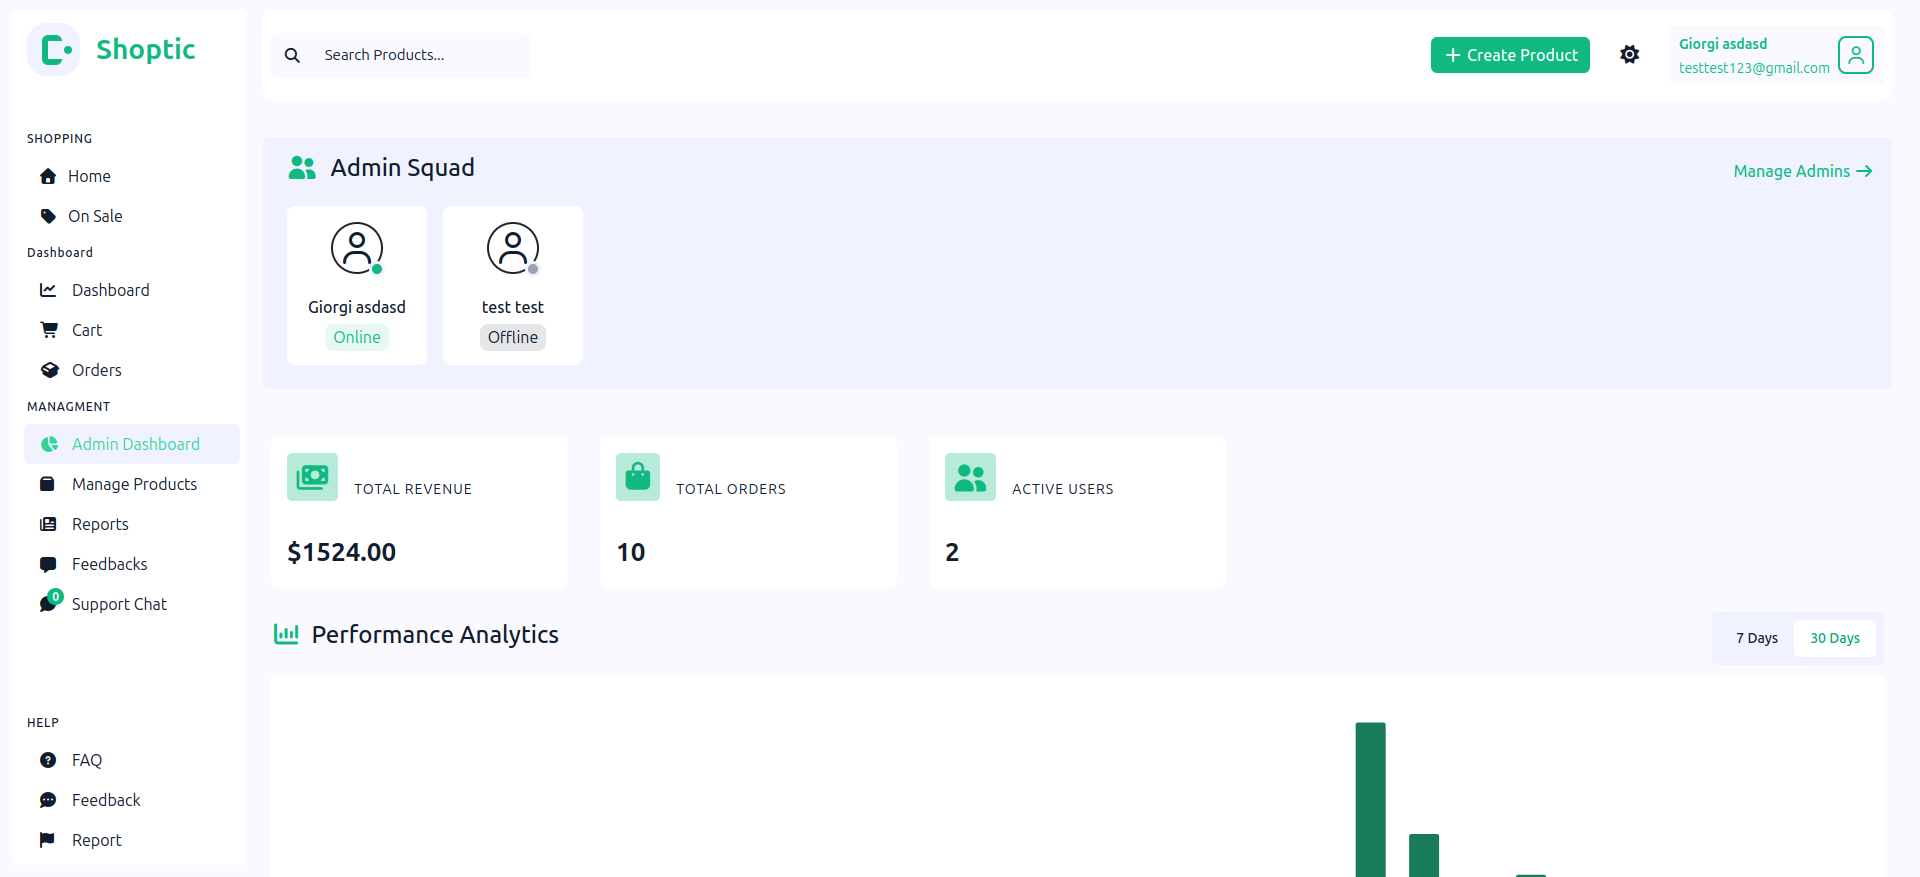
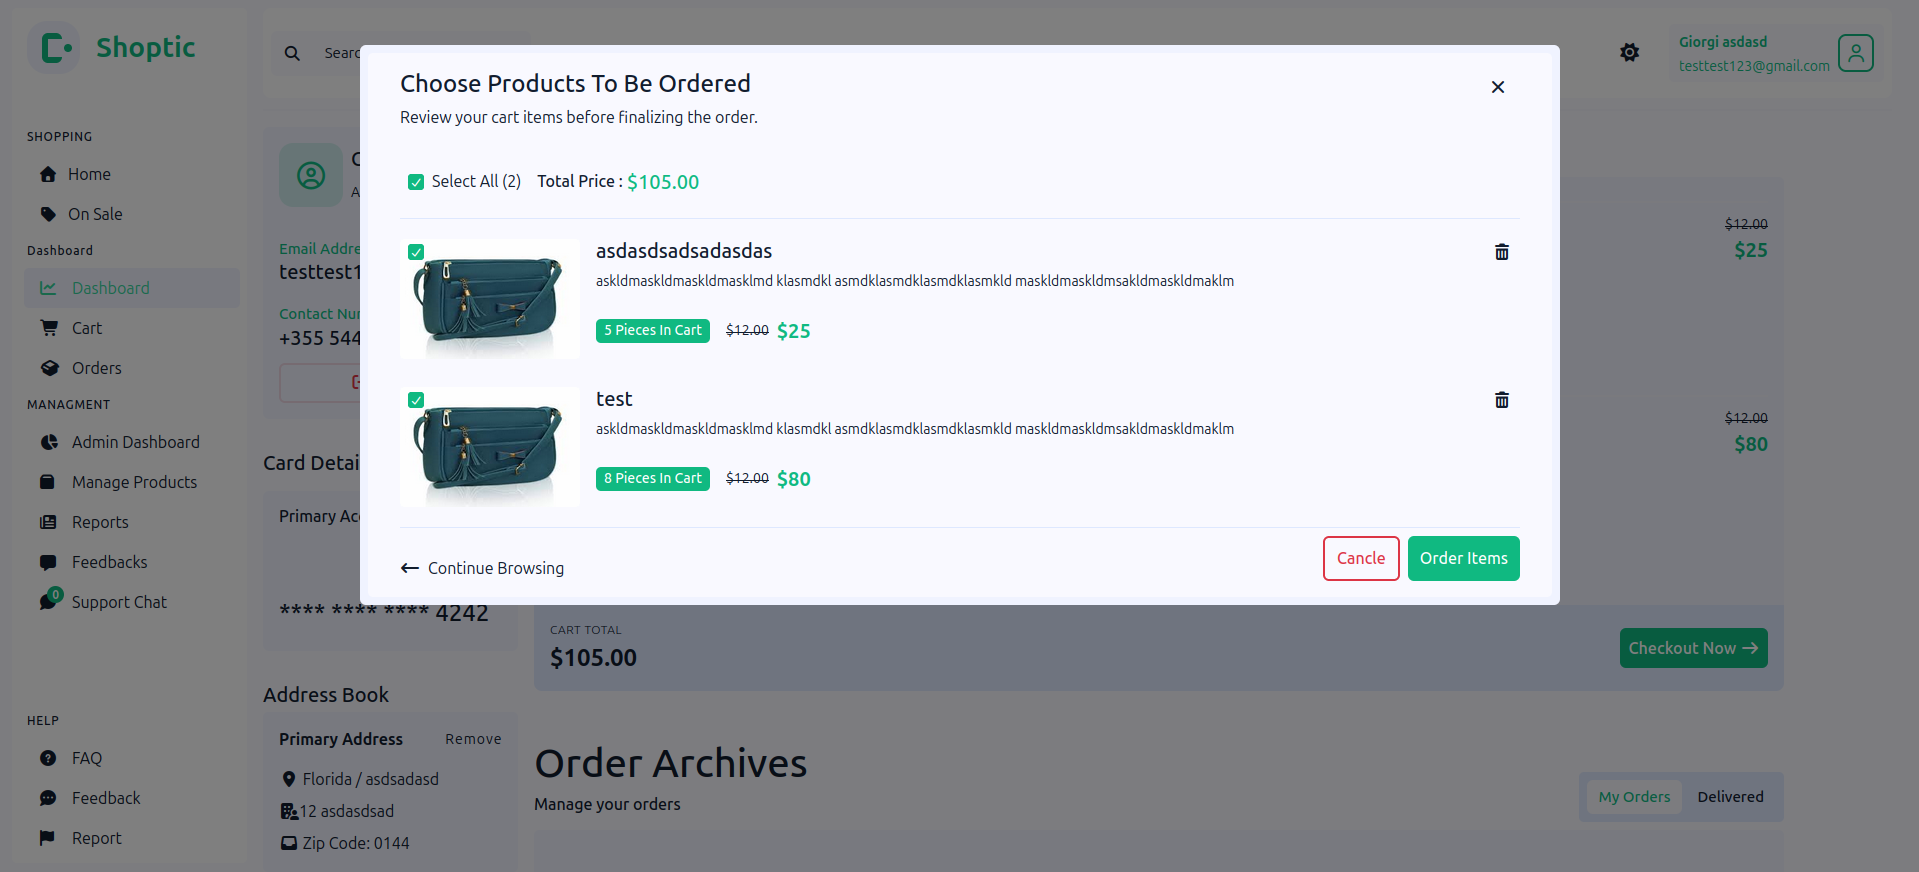
feat: created README.md file

diff --git a/frontend/src/empty/EmptyChat.jsx b/frontend/src/empty/EmptyChat.jsx
@@ -1,6 +1,6 @@
 const EmptyChat = () => {
     return(
-        <div className="empty-chat-container mt-2 p-3">
+        <div className="empty-chat-container mt-2 p-3" style={{maxHeight : '87vh'}}>
             <h2 className="fw-bold mt-3">No chat selected</h2>
             <div className="d-flex flex-column">
                 <h6>Select a conversation to start chatting</h6>

diff --git a/frontend/src/styles/admin.dashboard.css b/frontend/src/styles/admin.dashboard.css
@@ -166,7 +166,6 @@
     color: var(--delivered) !important;
     cursor: not-allowed;
 }
-
 .promoteBtn{
     background-color: var(--component-bg);
     color: var(--text-color);

diff --git a/README.md b/README.md
@@ -1,69 +1,180 @@
-# 🛒 E-Commerce App
+# 🛒 E-Commerce Platform
 
-A modern full-stack e-commerce web application that allows users to browse products, manage carts, and place orders through a smooth and responsive interface. It also includes an admin panel for product and order management.
+A full-stack e-commerce web application that provides a complete online shopping experience with user authentication, product management, secure payments, real-time communication, and an advanced admin dashboard.
+
+This project was built as a **learning and practice project**, and I gained significant experience in full-stack development, API design, real-time systems, and production-level architecture.
 
 ---
 
 ## 📌 About The Project
 
-This project is a full-stack e-commerce platform built to simulate a real online shopping experience.
+This platform simulates a real-world e-commerce system with both user and admin functionalities.
 
-### Key Features:
-- User authentication (login/register)
-- Product browsing and filtering
-- Shopping cart functionality
-- Order placement system
-- Admin dashboard for product management
-- Responsive UI for all devices
+Users can browse products, manage their cart, place orders, and interact with support features. Admins can manage products, handle feedback/reports, track sales analytics, and manage the entire platform.
+
+The system also includes secure payment processing, email notifications, and real-time chat support.
 
 ---
 
-## 🧰 Technologies Used
+## 🚀 Features
 
-### Frontend:
+### 👤 User Features
+- User authentication (Login / Signup)
+- Browse and search products
+- Add/remove products from cart
+- Place orders with secure checkout (Stripe)
+- Receive email notifications for order status updates
+- Submit feedback and reports
+- Live support chat system
+- FAQ section
+
+---
+
+### 🛠 Admin Features
+- Add / Edit / Delete products
+- Manage users and orders
+- Handle feedback and reports system
+- Order status management (triggers email updates)
+- Dashboard analytics (30-day / 7-day sales & revenue charts)
+- Admin control panel
+
+---
+
+### 📊 Analytics & Dashboard
+- Revenue tracking (7-day & 30-day views)
+- Sales statistics visualization
+- Built with interactive charts (Recharts.js)
+
+---
+
+### 💬 Real-Time Features
+- Live support chat using WebSockets
+- Instant admin-user communication
+
+---
+
+### 🔐 Security Features
+- Rate limiting (prevents abuse)
+- CORS protection
+- Secure REST APIs
+- JWT-based authentication
+
+---
+
+## 🧰 Tech Stack
+
+### Frontend
 - React.js
-- HTML5
-- CSS3
-- JavaScript
-- Bootstrap / Font Awesome
+- React State Management
+- Bootstrap
+- CSS
+- Recharts.js
 
-### Backend:
+### Backend
 - Node.js
 - Express.js
-- REST API
+- REST APIs
+- WebSocket
+- Webhooks
 
-### Database:
-- MySQL (or your DB here)
+### Database
+- MySQL
 
-### Other:
-- JWT Authentication
-- Axios (API requests)
+### Integrations & Tools
+- Stripe (Payments)
+- SendGrid (Email notifications)
+- Docker
+- Git & GitHub
+- Rate Limiter
+- CORS middleware
 
 ---
 
-## 📸 Project Screenshots
+## 📸 Screenshots
+
 
 ### 🏠 Home Page
-![Home Page](./screenshots/home.png)
+![Home](/frontend/public/assets/img2.png)
 
 ### 🛍 Product Page
-![Product Page](./screenshots/products.png)
+![Products](/frontend/public/assets/img1.png)
 
 ### 🛒 Cart Page
-![Cart Page](./screenshots/cart.png)
+![Cart](/frontend/public/assets/img8.png)
 
-### 🔐 Login Page
-![Login Page](./screenshots/login.png)
+### 💳 Checkout Page
+![Checkout](/frontend/public/assets/img5.png)
 
-### 🛠 Admin Dashboard
-![Admin Dashboard](./screenshots/admin.png)
+### 📊 Analytics Dashboard
+![Analytics](/frontend/public/assets/img4.png)
+
+### 💬 Live Chat
+![Chat](/frontend/public/assets/img6.png)
 
 ---
 
 ## ⚙ Installation Guide
 
-Follow these steps to run the project locally:
-
-### 1. Clone the repository
+### 1. Clone repository
 ```bash
-git clone https://github.com/your-username/ecommerce-app.git
+git clone https://github.com/your-username/ecommerce-app.git 
+```
+--
+
+### 2. Install backend dependencies
+```bash
+cd backend
+npm install
+```
+--
+
+
+### 3. Install frontend dependencies
+```bash
+cd frontend
+npm install
+```
+--
+
+
+### 4. Setup environment variables
+
+Create a .env file in the backend folder:
+
+```bash
+DB_HOST=your_host
+DB_USER=your_user
+DB_PASSWORD=your_password
+DB_NAME=your_database
+
+JWT_SECRET=your_secret_key
+
+STRIPE_SECRET_KEY=your_stripe_key
+SENDGRID_API_KEY=your_sendgrid_key
+```
+
+Create a .env file in frontend folder:
+```bash
+VITE_BACKEND_URl=localhost://8081
+VITE_STRIPE_PUBLIC_KEY=pk_test_51T3HPbDhDPlvJFNzLqb5y5nmgK1Sq6NeqWNnnmBGggStVexE0WEW8pNsJqkIQBMRfPIQAt35vok5Jc4m7EJODeYp00GrSyMxE5
+```
+--
+
+### 5. Run the project
+
+```bash 
+cd backend nodemon server.js
+```
+
+```bash
+cd frontend npm run dev
+```
+---
+
+## 🚀 Future Improvements
+
+- 🎨 Improve UI/UX design for a more modern and user-friendly experience
+- 🔔 Add real-time notifications for orders, messages, and system updates
+- 📊 Enhance admin analytics with deeper insights and advanced reporting
+- 🤖 Integrate an AI-powered chatbot for customer support and assistance
+- 📱 Improve mobile responsiveness and performance optimization
